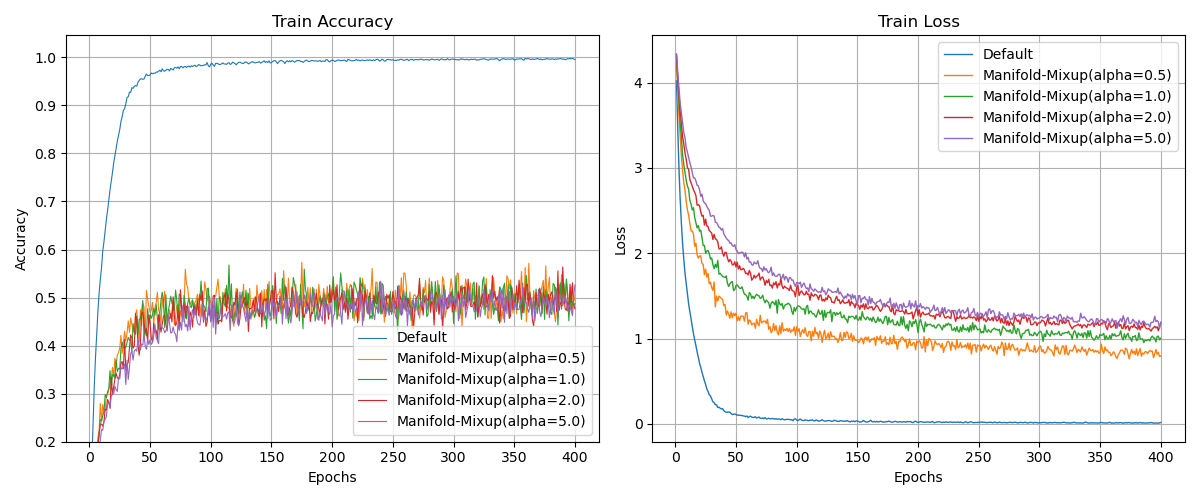
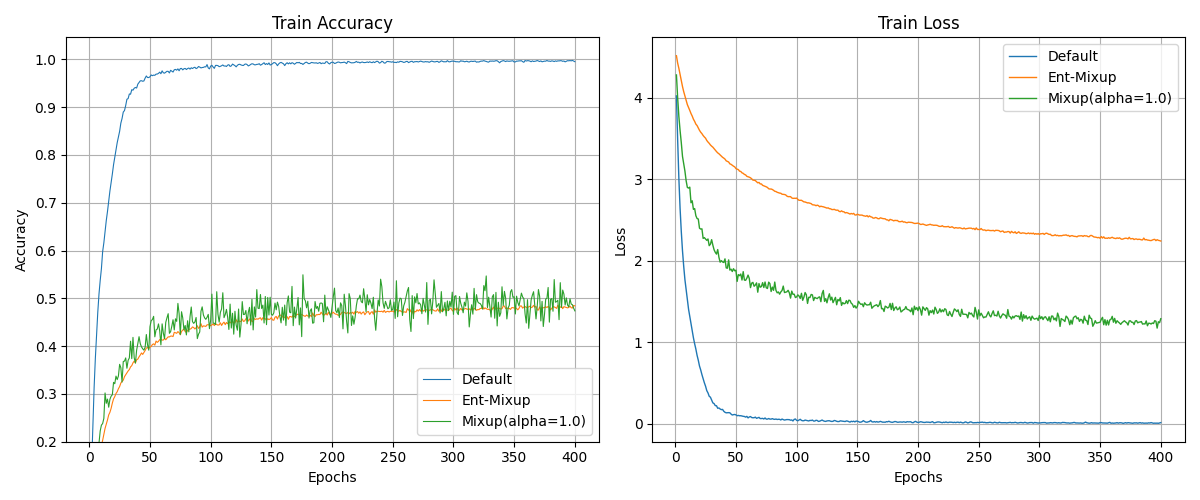
SK-Mixup

diff --git a/src/utils.py b/src/utils.py
@@ -21,6 +21,56 @@ import torchvision.transforms.functional as TF
 import torch.nn.functional as F
 from torch.distributions import Beta
 import math
+from scipy.special import betaincinv
+
+def sk_mixup(x, y, model, tau_max=1.0, tau_std=0.25, device='cuda'):
+    """
+    Similarity Kernel Mixup (SK-Mixup) augmentation.
+    
+    Args:
+        x:       [B, C, H, W] バッチ画像テンソル
+        y:       [B] 正解ラベル（LongTensor）
+        model:   埋め込みを取り出せるように改造したモデル
+        tau_max: τ_max の初期値 (論文デフォルト: 1.0)
+        tau_std: τ_std の初期値 (論文デフォルト: 0.25)
+        device:  使用デバイス
+
+    Returns:
+        x_mix:       [B, C, H, W] ミックス済み画像
+        y_a, y_b:    [B] オリジナル・ペアラベル
+        lam:         [B] 各サンプルの補間係数 λ_i
+    """
+    B = x.size(0)
+
+    # 1) 埋め込みを計算 (分類ヘッド直前の特徴ベクトル h(x) を返すようモデルを準備する)
+    #    例: model.encoder(images) → [B, D]
+    with torch.no_grad():
+        embeddings = model.extract_features(x.to(device))  
+    embeddings = embeddings.view(B, -1)  # 平坦化
+
+    # 2) 対応ペアをランダムに選択
+    perm = torch.randperm(B, device=device)
+    x2 = x[perm]
+    y2 = y[perm]
+    emb2 = embeddings[perm]
+
+    # 3) バッチ内距離の計算と正規化
+    dist2 = (embeddings - emb2).pow(2).sum(dim=1)                    # ‖h(x_i)-h(x_j)‖²
+    mean_dist2 = dist2.mean()                                       # 平均距離
+    d_bar = dist2 / mean_dist2                                      # 式(5) :contentReference[oaicite:0]{index=0}
+
+    # 4) τ_i の算出 (Similarity Kernel)  
+    tau_i = tau_max * torch.exp(-(d_bar - 1) / (2 * tau_std**2))
+    tau_i = tau_i.clamp(min=1e-3)      # ← これで tau_i >= eps を保証
+    beta_dist = Beta(tau_i, tau_i)
+    lam = beta_dist.sample().view(B,1,1,1)
+
+    # 7) 画像とラベルの線形補間
+    x_mix = lam * x + (1 - lam) * x2
+    y_a, y_b = y, y2
+    lam = lam.view(B)  # mixup_criterion 用
+
+    return x_mix, y_a, y_b, lam
 
 def ent_augment_mixup(x, y, model, alpha_max, num_classes, eps=1e-8):
     """
@@ -168,6 +218,17 @@ def train(model, train_loader, criterion, optimizer, device, augment, num_classe
             # if batch_idx == 0:
             #     visualize_batch(epochs, images, labels, augment, n=10)
         
+        elif augment == "SK-Mixup":
+            images, y_a, y_b, lam = sk_mixup(
+                x=images, y=labels,
+                model=model,
+                tau_max=1.0,       # 論文デフォルト: τ_max=1.0 :contentReference[oaicite:3]{index=3}
+                tau_std=0.25,       # 論文デフォルト: τ_std=0.25 :contentReference[oaicite:4]{index=4}
+                device=device
+            )
+            preds = model(images, labels, device, augment, aug_ok)
+            loss  = mixup_criterion(criterion, preds, y_a, y_b, lam)
+        
         elif augment == "Ent-Mixup":
             images, y_a, y_b, lam, alpha = ent_augment_mixup(
                 x=images,
@@ -289,8 +350,8 @@ def train(model, train_loader, criterion, optimizer, device, augment, num_classe
                 preds = model(images, labels, device, augment, aug_ok=True)
                 loss  = criterion(preds, labels)
         
-        with open(f"./history/alpha_cifar100.pickle", "wb") as f:
-            pickle.dump(history, f)
+        # with open(f"./history/alpha_cifar100.pickle", "wb") as f:
+        #     pickle.dump(history, f)
 
         batch_idx += 1
         optimizer.zero_grad()

diff --git a/result.py b/result.py
@@ -19,15 +19,15 @@ def main():
     
     augmentations = [
         "Default",
+        "Ent-Mixup",
         # "Mixup(alpha=0.5)",
-        # "Mixup",
+        "Mixup",
         # "Mixup(alpha=2.0)",
         # "Mixup(alpha=5.0)",
-        "Manifold-Mixup(alpha=0.5)",
-        "Manifold-Mixup(alpha=1.0)",
-        "Manifold-Mixup",
-        "Manifold-Mixup(alpha=5.0)",
-
+        # "Manifold-Mixup(alpha=0.5)",
+        # "Manifold-Mixup(alpha=1.0)",
+        # "Manifold-Mixup",
+        # "Manifold-Mixup(alpha=5.0)",
         # "Mixup-Curriculum",
 
         # "FOMA",

diff --git a/train.py b/train.py
@@ -22,7 +22,8 @@ from batch_sampler import extract_wrn_features, FeatureKNNBatchSampler, HybridFO
 augmentations = [
     # "Default",
 
-    "Ent-Mixup",
+    "SK-Mixup",
+    # "Ent-Mixup",
 
     # "Mixup",
     # "Manifold-Mixup",
